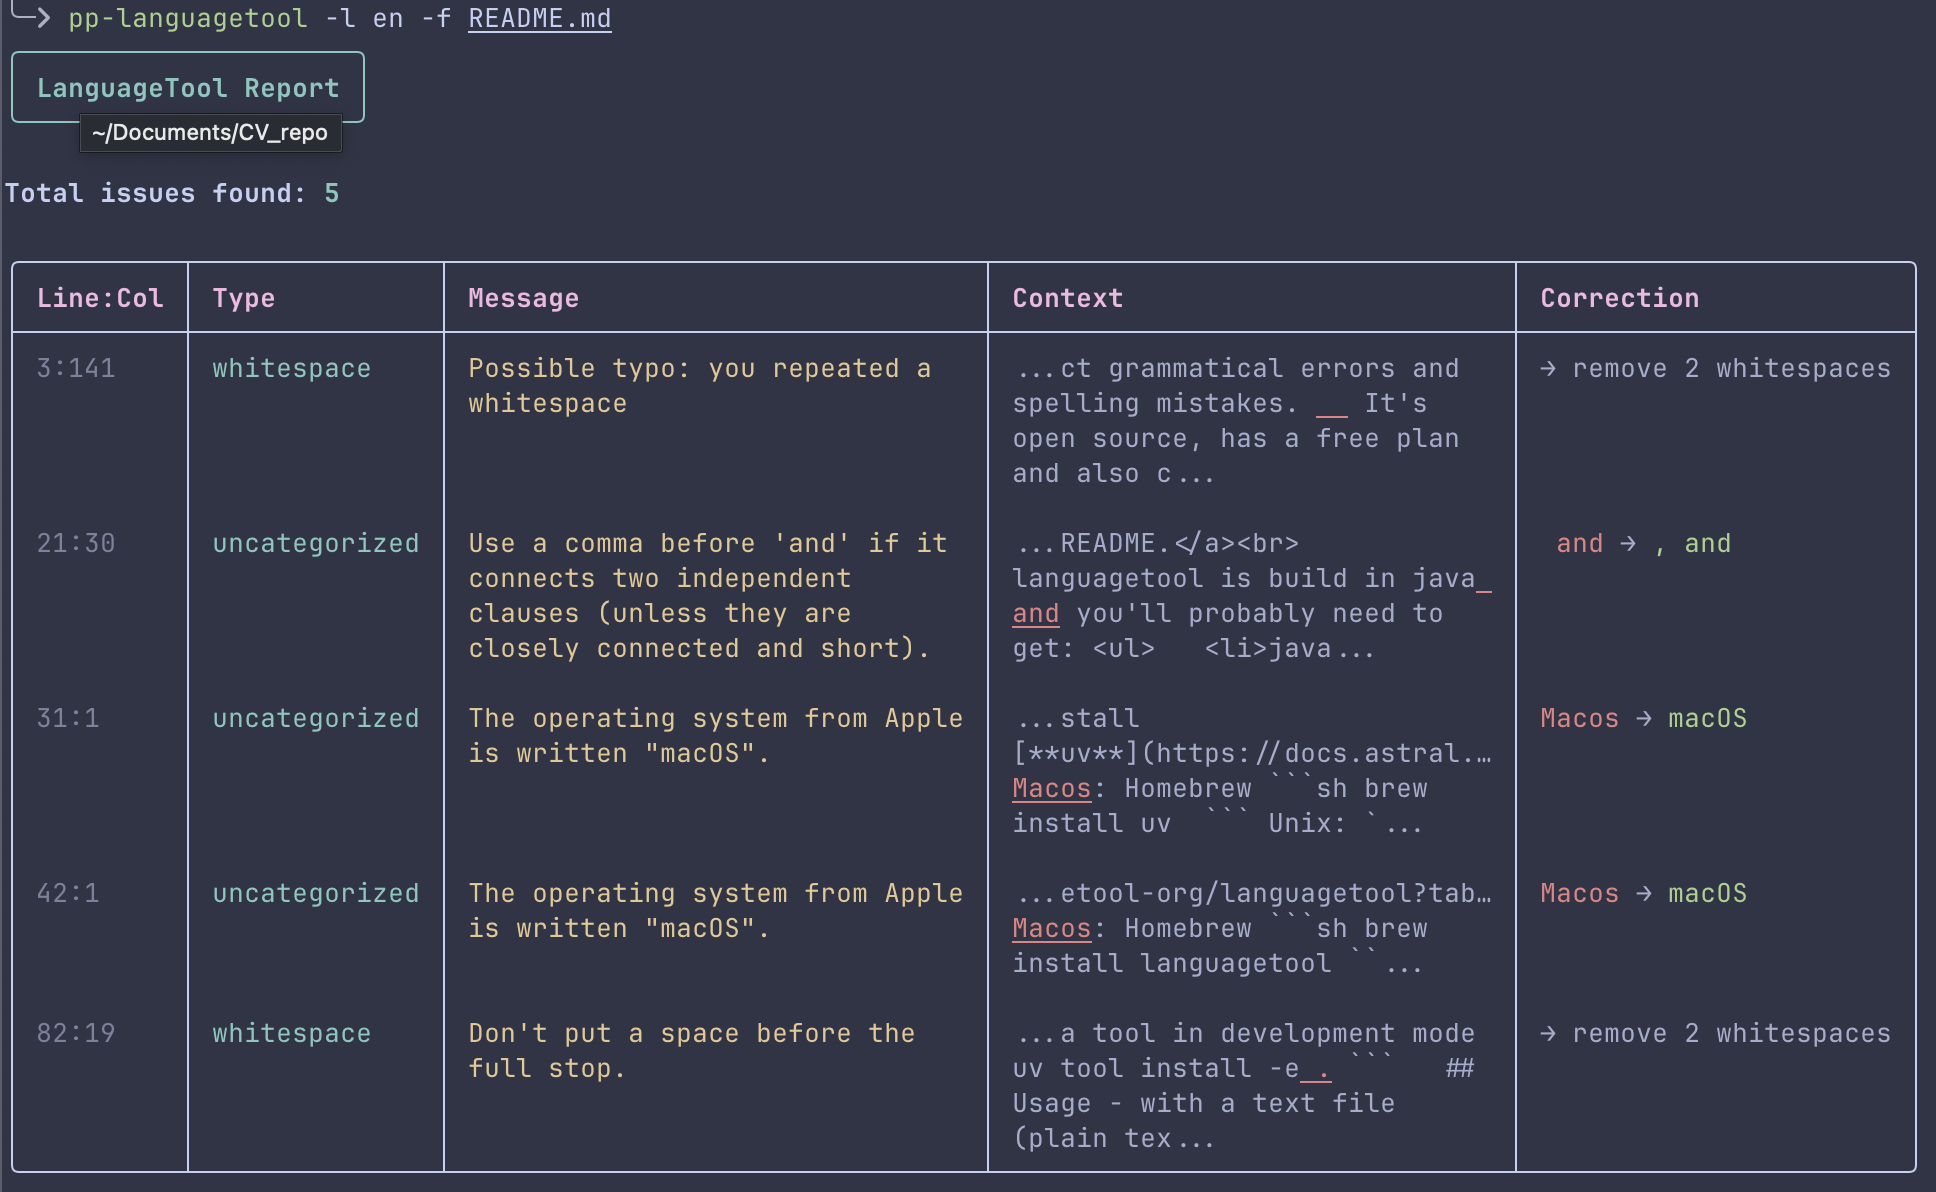
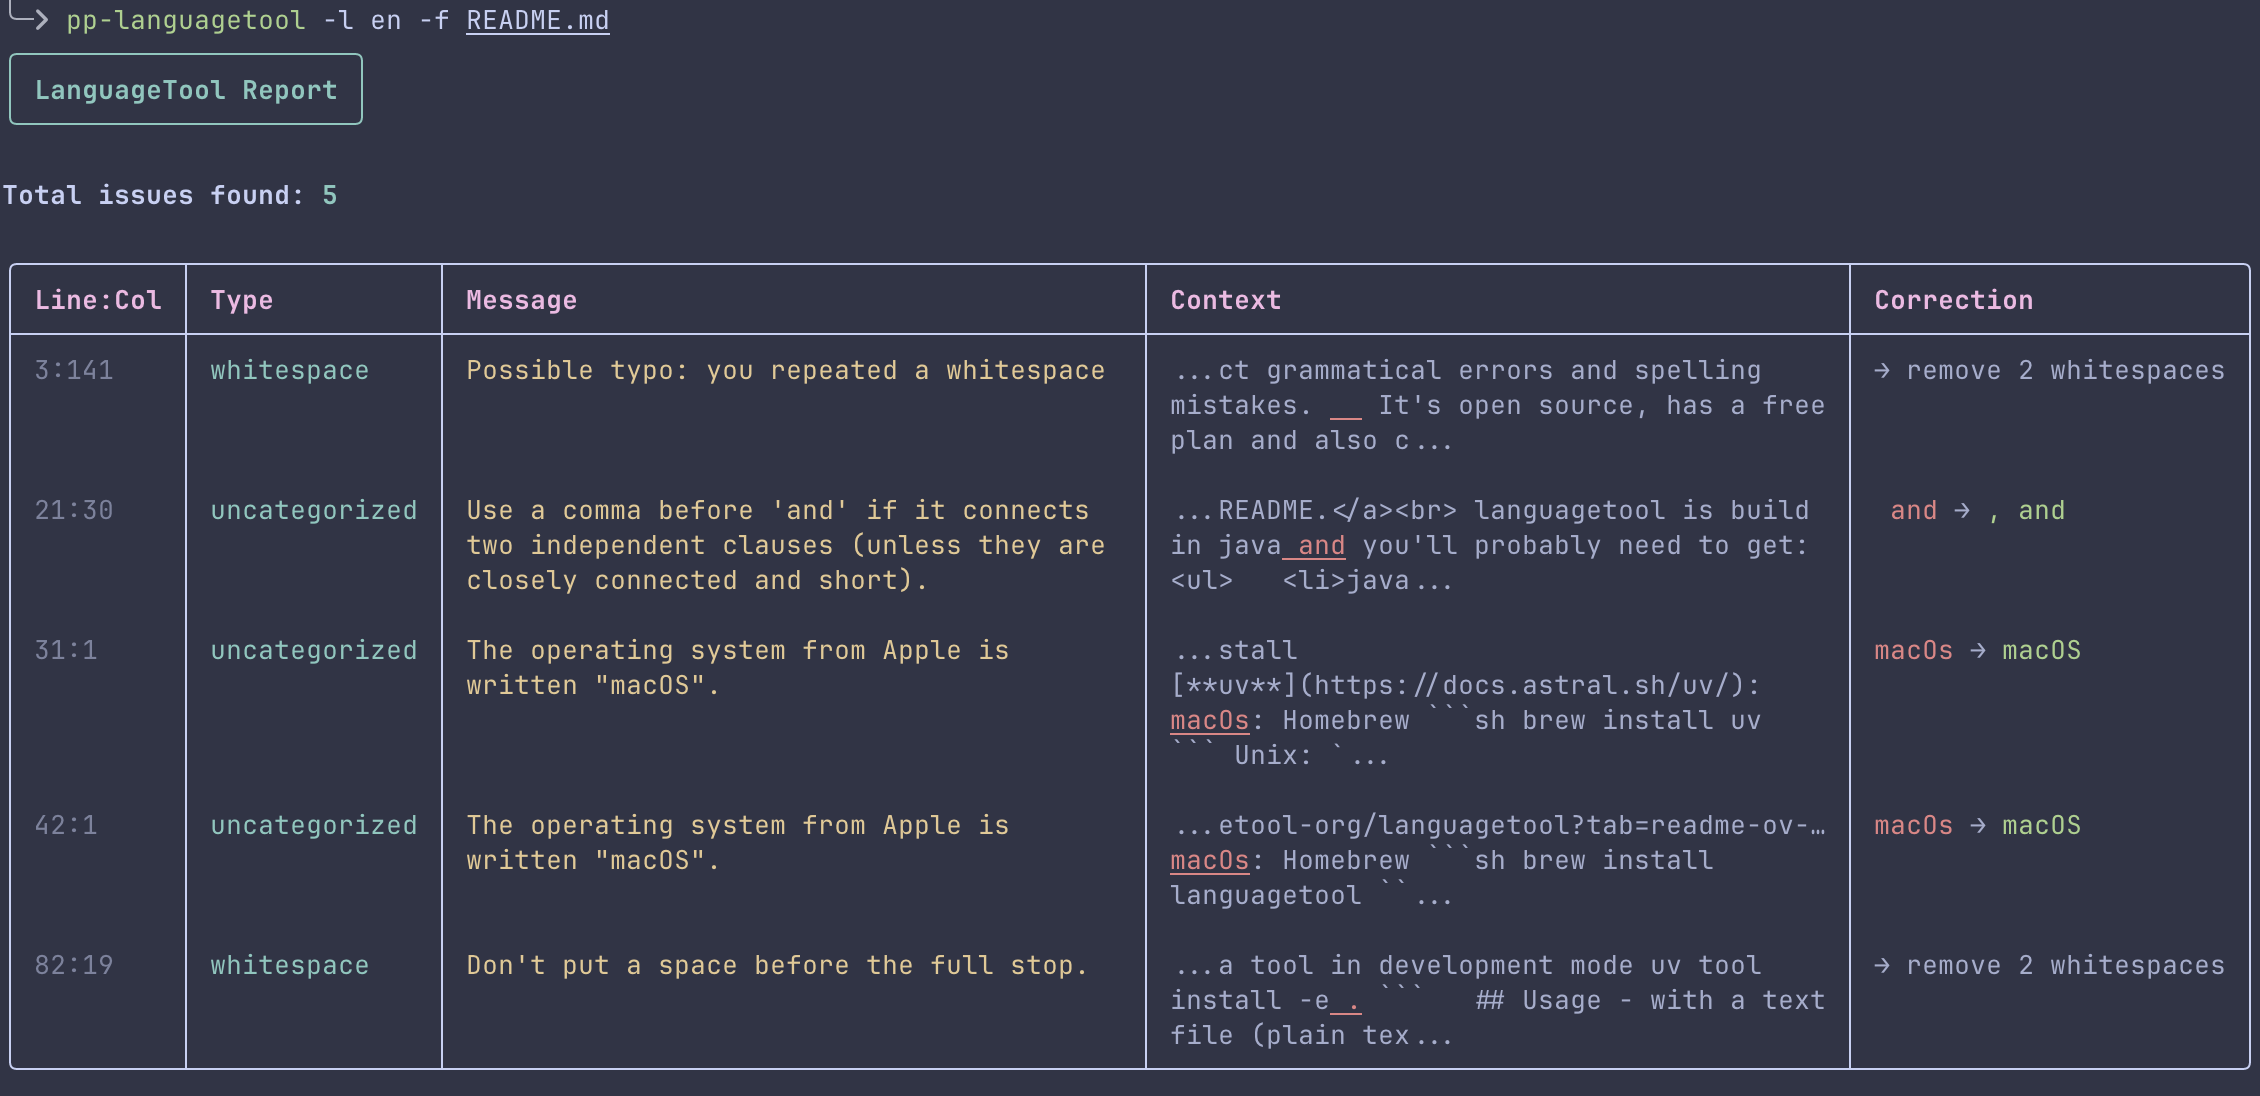
updated image preview

diff --git a/README.md b/README.md
@@ -18,7 +18,7 @@ Use it to check the errors on your text using LanguageTool in the terminal and l
 <details>
 <summary>Windows users</summary>
 To install languagetool on Windows, please follow the instructions on the <a href="https://github.com/languagetool-org/languagetool?tab=readme-ov-file">languagetool README.</a><br>
-languagetool is build in java and you'll probably need to get:
+languagetool is build in java, and you'll probably need to get:
 <ul>
   <li>java 8 or later</li>
   <li><a href="https://internal1.languagetool.org/snapshots/">languagetool snapshots</a></li>
@@ -28,7 +28,7 @@ languagetool is build in java and you'll probably need to get:
 
 1. Install [**uv**](https://docs.astral.sh/uv/):
 
-Macos: Homebrew
+macOS: Homebrew
 ```sh
 brew install uv 
 ```
@@ -39,7 +39,7 @@ curl -LsSf https://astral.sh/uv/install.sh | sh
  
 2. Install [languagetool](https://github.com/languagetool-org/languagetool?tab=readme-ov-file):
 
-Macos: Homebrew
+macOS: Homebrew
 ```sh
 brew install languagetool
 ```
@@ -96,6 +96,7 @@ pp-languagetool -l en-US -t "This is a baadly sppelled sentnse"
 ```
 If you don't provide either -f or -t, you can enter text directly as stdin. Once done, exit with ctrl-D to let languagetool check the text.
 
+Example of the table and the colors:
 ![Example of output](images/example.png)
 
 ## Credits
